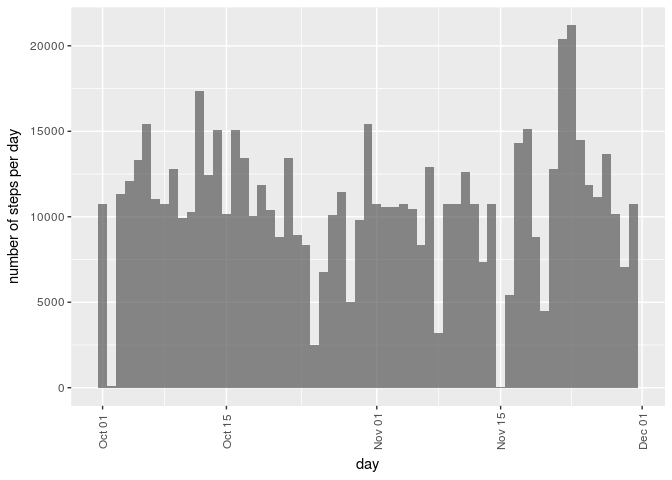
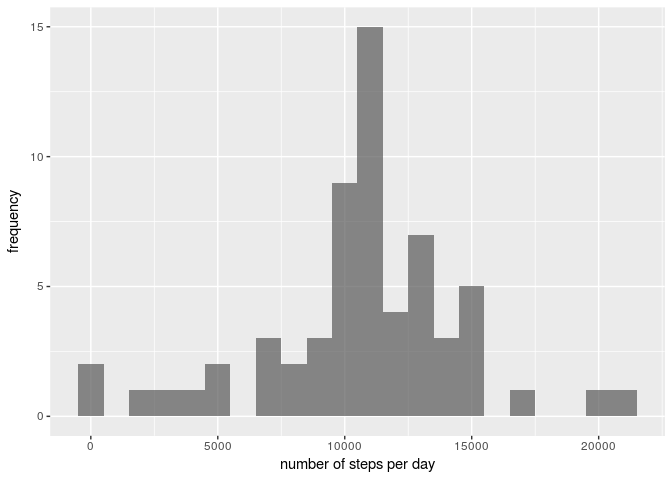
Finished assignment

diff --git a/PA1_template.html b/PA1_template.html
@@ -149,8 +149,8 @@ $(document).ready(function () {
 </div>
 <div id="what-is-mean-total-number-of-steps-taken-per-day" class="section level2">
 <h2>What is mean total number of steps taken per day?</h2>
-<div id="total-number-of-steps-taken-per-day" class="section level3">
-<h3>Total number of steps taken per day</h3>
+<div id="histogram-of-total-number-of-steps-taken-per-day" class="section level3">
+<h3>Histogram of total number of steps taken per day</h3>
 <p>We are told that we should ignore missing data for this question. Below we do so and compute the number of steps per day for the days where data is available</p>
 <pre class="r"><code>data_no_NA &lt;- data[!is.na(data['steps']),]
 dates_levels&lt;-levels(data_no_NA[,'date'])
@@ -164,11 +164,10 @@ steps_p_day['dates_levels']&lt;-as.Date(steps_p_day[,'dates_levels'])</code></pr
 </div>
 <div id="histogram-of-the-total-number-of-steps-taken-each-day" class="section level3">
 <h3>Histogram of the total number of steps taken each day</h3>
-<p>Now we make a hstogram for the number of steps per day. In practice, due to the format of the data above, we need to use geom_col from ggplot2 with no spacing between the bars (as it should be for a histogram, which in this case contains the time variable in the form of a date in the x axis)</p>
+<p>Now we make a hstogram for the number of steps per day</p>
 <pre class="r"><code>library(ggplot2)
-ggplot(steps_p_day,aes(dates_levels,steps_per_day,width=0.9999))+geom_col(alpha = 0.7)+xlab('day')+ylab('number of steps per day')+
-  theme(axis.text.x=element_text(angle=90,hjust=0.5,vjust=0.6))</code></pre>
[1 lines of base64/hex data omitted]
+ggplot(steps_p_day,aes(steps_per_day))+geom_histogram(alpha = 0.7,binwidth=1000)+ylab('frequency')+xlab('number of steps per day')</code></pre>
[1 lines of base64/hex data omitted]
 </div>
 <div id="mean-and-median-of-the-total-number-of-steps-taken-per-day" class="section level3">
 <h3>Mean and median of the total number of steps taken per day</h3>
@@ -255,9 +254,8 @@ steps_p_day['dates_levels']&lt;-as.Date(steps_p_day[,'dates_levels'])</code></pr
 <h3>Histogram, mean and median</h3>
 <p>Here is the histogram of the total number of steps taken each day</p>
 <pre class="r"><code>library(ggplot2)
-ggplot(steps_p_day,aes(dates_levels,steps_per_day,width=0.9999))+geom_col(alpha = 0.7)+xlab('day')+ylab('number of steps per day')+
-  theme(axis.text.x=element_text(angle=90,hjust=0.5,vjust=0.6))</code></pre>
[1 lines of base64/hex data omitted]
+ggplot(steps_p_day,aes(steps_per_day))+geom_histogram(alpha = 0.7,binwidth=1000)+ylab('frequency')+xlab('number of steps per day')</code></pre>
[1 lines of base64/hex data omitted]
 <pre class="r"><code>mean_after_impute&lt;-mean(steps_p_day$steps_per_day)
 print(paste('The mean number of steps per day is',mean_after_impute))</code></pre>
 <pre><code>## [1] &quot;The mean number of steps per day is 10765.6393442623&quot;</code></pre>

diff --git a/PA1_template.md b/PA1_template.md
@@ -54,7 +54,7 @@ So we have lots of missing values for the steps variable. However we should not 
 
 ## What is mean total number of steps taken per day?
 
-### Total number of steps taken per day
+### Histogram of total number of steps taken per day
 We are told that we should ignore missing data for this question. Below we do so and compute the number of steps per day for the days where data is available
 
 ```r
@@ -69,12 +69,11 @@ steps_p_day['steps_per_day']<-counts
 steps_p_day['dates_levels']<-as.Date(steps_p_day[,'dates_levels'])
 ```
 ### Histogram of the total number of steps taken each day
-Now we make a hstogram for the number of steps per day. In practice, due to the format of the data above, we need to use geom_col from ggplot2 with no spacing between the bars (as it should be for a histogram, which in this case contains the time variable in the form of a date in the x axis)
+Now we make a hstogram for the number of steps per day
 
 ```r
 library(ggplot2)
-ggplot(steps_p_day,aes(dates_levels,steps_per_day,width=0.9999))+geom_col(alpha = 0.7)+xlab('day')+ylab('number of steps per day')+
-  theme(axis.text.x=element_text(angle=90,hjust=0.5,vjust=0.6))
+ggplot(steps_p_day,aes(steps_per_day))+geom_histogram(alpha = 0.7,binwidth=1000)+ylab('frequency')+xlab('number of steps per day')
 ```
 
 ![](PA1_template_files/figure-html/unnamed-chunk-5-1.png)<!-- -->
@@ -220,8 +219,7 @@ Here is the histogram of the total number of steps taken each day
 
 ```r
 library(ggplot2)
-ggplot(steps_p_day,aes(dates_levels,steps_per_day,width=0.9999))+geom_col(alpha = 0.7)+xlab('day')+ylab('number of steps per day')+
-  theme(axis.text.x=element_text(angle=90,hjust=0.5,vjust=0.6))
+ggplot(steps_p_day,aes(steps_per_day))+geom_histogram(alpha = 0.7,binwidth=1000)+ylab('frequency')+xlab('number of steps per day')
 ```
 
 ![](PA1_template_files/figure-html/unnamed-chunk-14-1.png)<!-- -->
